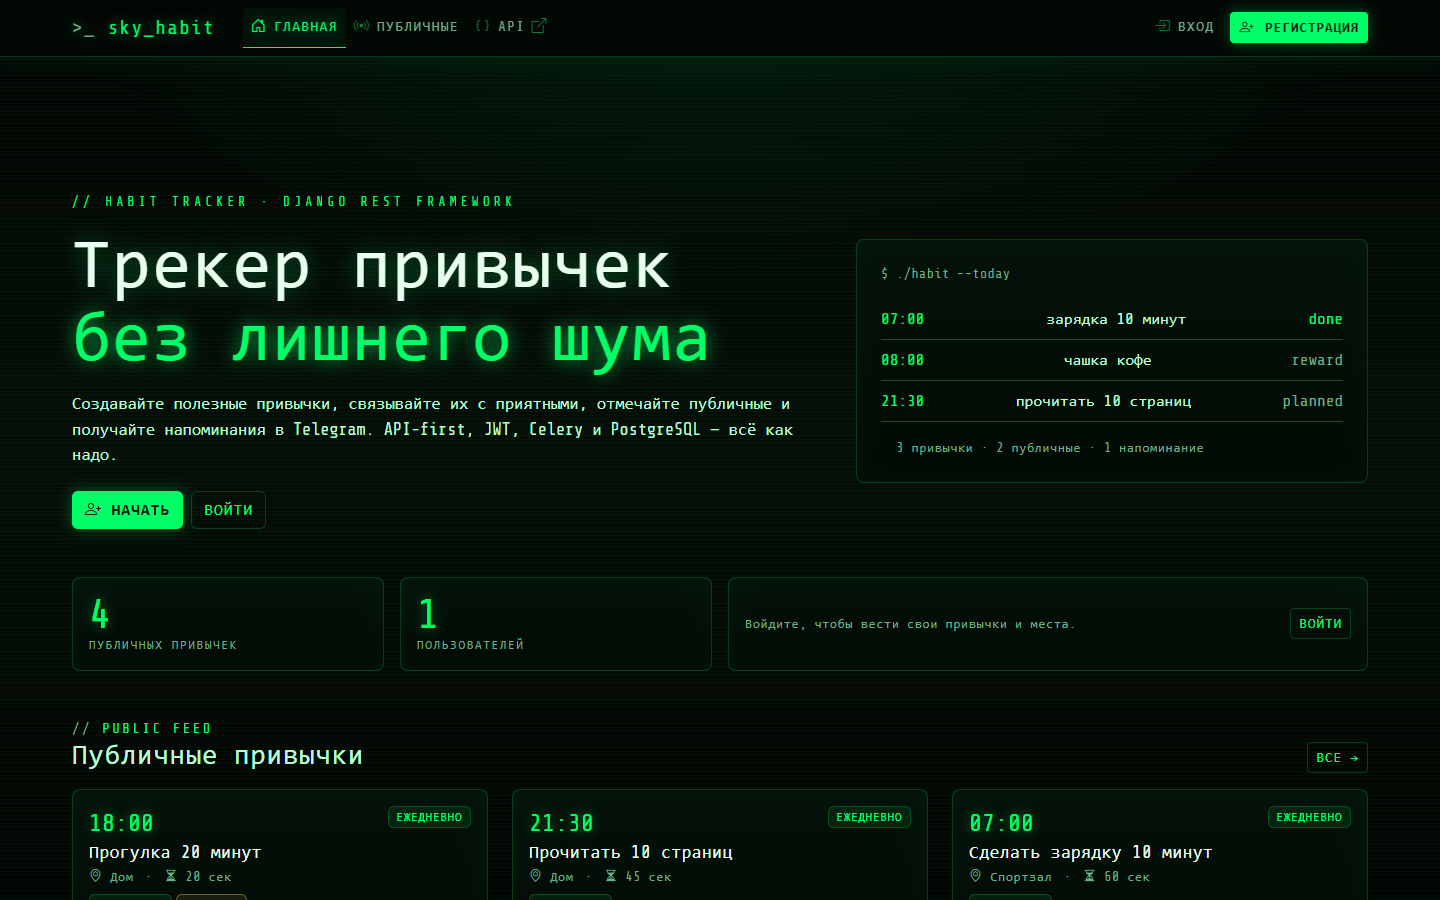
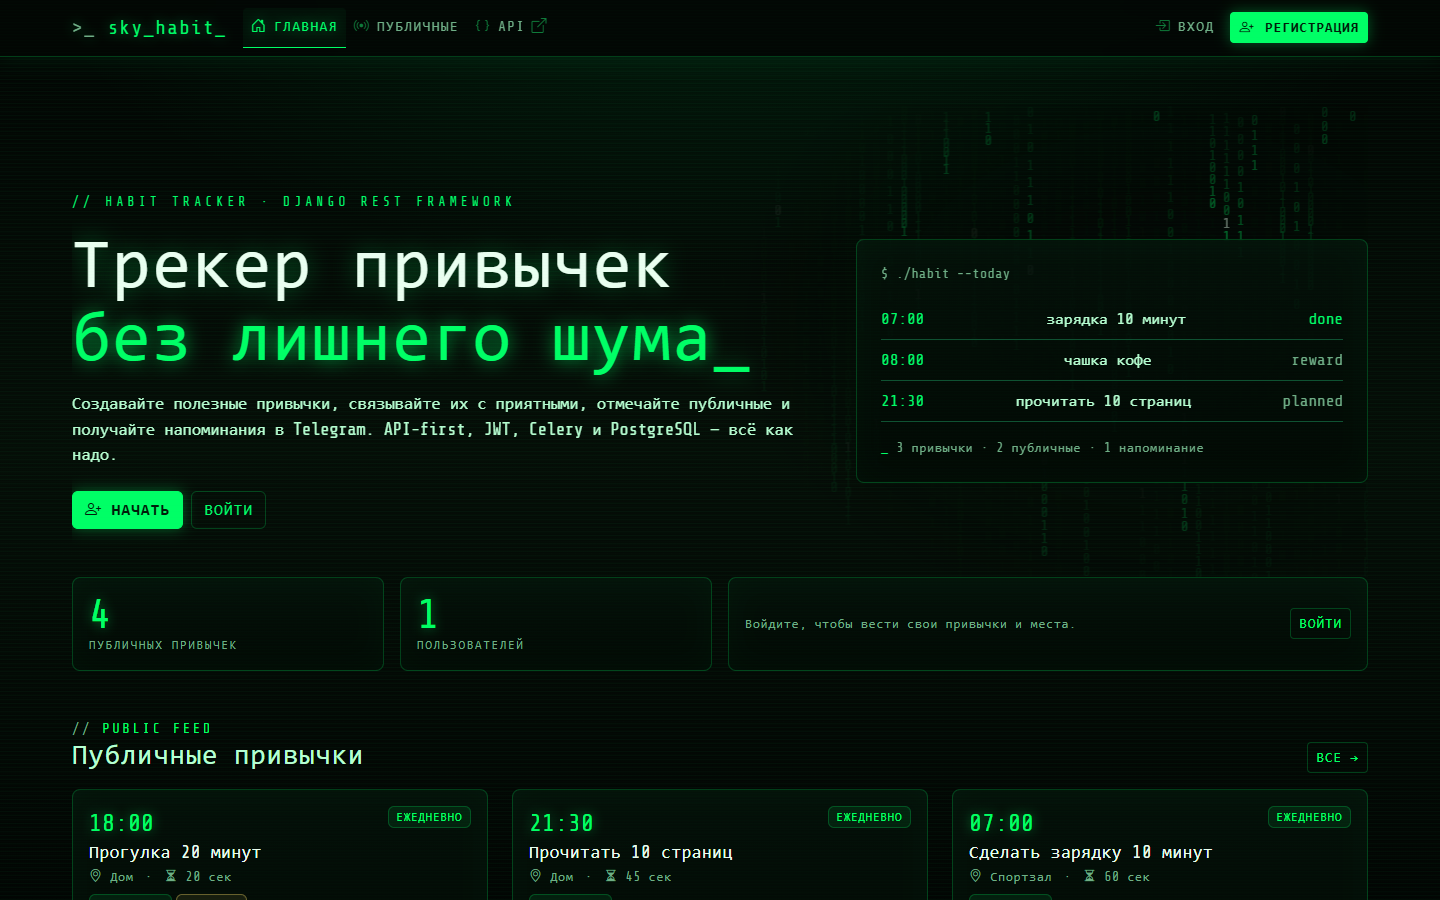
Добавил цифровой дождь на главную страницу

diff --git a/static/js/matrix-rain.js b/static/js/matrix-rain.js
@@ -1,0 +1,139 @@
+(() => {
+  const canvas = document.getElementById("matrix-rain");
+
+  if (!canvas || window.matchMedia("(prefers-reduced-motion: reduce)").matches) {
+    return;
+  }
+
+  const context = canvas.getContext("2d");
+
+  if (!context) {
+    return;
+  }
+
+  const glyphs = "01";
+  const fontSize = 14;
+  const fps = 20;
+  const fadeColor = "rgba(2, 5, 3, 0.14)";
+
+  let width = 0;
+  let height = 0;
+  let columns = [];
+  let frame = 0;
+  let lastFrame = 0;
+
+  const randomSpeed = () => fontSize * (0.5 + Math.random());
+
+  function resize() {
+    const rect = canvas.getBoundingClientRect();
+
+    if (!rect.width || !rect.height) {
+      return;
+    }
+
+    const dpr = Math.min(window.devicePixelRatio || 1, 1.5);
+
+    canvas.width = Math.floor(rect.width * dpr);
+    canvas.height = Math.floor(rect.height * dpr);
+
+    context.setTransform(dpr, 0, 0, dpr, 0, 0);
+    context.font = `${fontSize}px "Share Tech Mono", "Courier New", monospace`;
+    context.textBaseline = "top";
+
+    width = rect.width;
+    height = rect.height;
+
+    columns = Array.from({ length: Math.ceil(width / fontSize) }, () => ({
+      y: Math.random() * -height,
+      speed: randomSpeed(),
+    }));
+
+    context.fillStyle = "rgba(2, 5, 3, 1)";
+    context.fillRect(0, 0, width, height);
+  }
+
+  function draw() {
+    context.fillStyle = fadeColor;
+    context.fillRect(0, 0, width, height);
+
+    for (let index = 0; index < columns.length; index += 1) {
+      const column = columns[index];
+      const x = index * fontSize;
+
+      if (column.y > 0) {
+        const char = glyphs[Math.floor(Math.random() * glyphs.length)];
+        context.fillStyle = Math.random() > 0.965 ? "#eafff1" : "rgba(0, 255, 102, 0.78)";
+        context.fillText(char, x, column.y);
+      }
+
+      column.y += column.speed;
+
+      if (column.y > height + fontSize * 2) {
+        column.y = -Math.random() * height * 0.5;
+        column.speed = randomSpeed();
+      }
+    }
+  }
+
+  function loop(timestamp) {
+    frame = window.requestAnimationFrame(loop);
+
+    if (timestamp - lastFrame < 1000 / fps) {
+      return;
+    }
+
+    lastFrame = timestamp;
+    draw();
+  }
+
+  function start() {
+    if (!frame) {
+      frame = window.requestAnimationFrame(loop);
+    }
+  }
+
+  function stop() {
+    if (frame) {
+      window.cancelAnimationFrame(frame);
+      frame = 0;
+    }
+  }
+
+  resize();
+
+  if (width > 0 && height > 0) {
+    start();
+  }
+
+  let resizeTimer = 0;
+  window.addEventListener("resize", () => {
+    window.clearTimeout(resizeTimer);
+    resizeTimer = window.setTimeout(() => {
+      stop();
+      resize();
+      start();
+    }, 200);
+  });
+
+  document.addEventListener("visibilitychange", () => {
+    if (document.hidden) {
+      stop();
+    } else {
+      start();
+    }
+  });
+
+  if ("IntersectionObserver" in window) {
+    const observer = new IntersectionObserver((entries) => {
+      entries.forEach((entry) => {
+        if (entry.isIntersecting) {
+          start();
+        } else {
+          stop();
+        }
+      });
+    });
+
+    observer.observe(canvas);
+  }
+})();

diff --git a/static/css/matrix.css b/static/css/matrix.css
@@ -154,7 +154,42 @@ h6 {
 }
 
 .hero {
+  position: relative;
   padding: clamp(2.5rem, 7vw, 5.5rem) 0 clamp(1.5rem, 4vw, 3rem);
+  overflow: hidden;
+}
+
+.hero-matrix {
+  position: absolute;
+  inset: 0 0 0 38%;
+  z-index: 0;
+  pointer-events: none;
+  opacity: 0.55;
+  -webkit-mask-image: radial-gradient(ellipse 75% 90% at 75% 45%, #000 15%, transparent 75%);
+  mask-image: radial-gradient(ellipse 75% 90% at 75% 45%, #000 15%, transparent 75%);
+}
+
+.hero-matrix canvas {
+  display: block;
+  width: 100%;
+  height: 100%;
+}
+
+.hero > .row {
+  position: relative;
+  z-index: 1;
+}
+
+@media (max-width: 991.98px) {
+  .hero-matrix {
+    display: none;
+  }
+}
+
+@media (prefers-reduced-motion: reduce) {
+  .hero-matrix {
+    display: none;
+  }
 }
 
 .hero-kicker {

diff --git a/templates/home.html b/templates/home.html
@@ -1,9 +1,14 @@
 {% extends "base.html" %}
+{% load static %}
 
 {% block title %}Sky Habit — трекер привычек{% endblock %}
 
 {% block content %}
   <section class="hero">
+    <div class="hero-matrix" aria-hidden="true">
+      <canvas id="matrix-rain"></canvas>
+    </div>
+
     <div class="row align-items-center g-5">
       <div class="col-lg-7">
         <div class="hero-kicker mb-3">// habit tracker · django rest framework</div>
@@ -163,4 +168,8 @@
     <span class="badge badge-matrix">PostgreSQL</span>
     <span class="badge badge-matrix">Docker</span>
   </div>
+{% endblock %}
+
+{% block extra_js %}
+  <script src="{% static 'js/matrix-rain.js' %}"></script>
 {% endblock %}

diff --git a/tests/test_web.py b/tests/test_web.py
@@ -56,6 +56,7 @@ def test_home_shows_public_habits(client, user):
     assert response.status_code == 200
     assert "Публичная зарядка" in content
     assert "Секретная привычка" not in content
+    assert 'id="matrix-rain"' in content
 
 
 def test_public_list_hides_private_habits(client, user):
